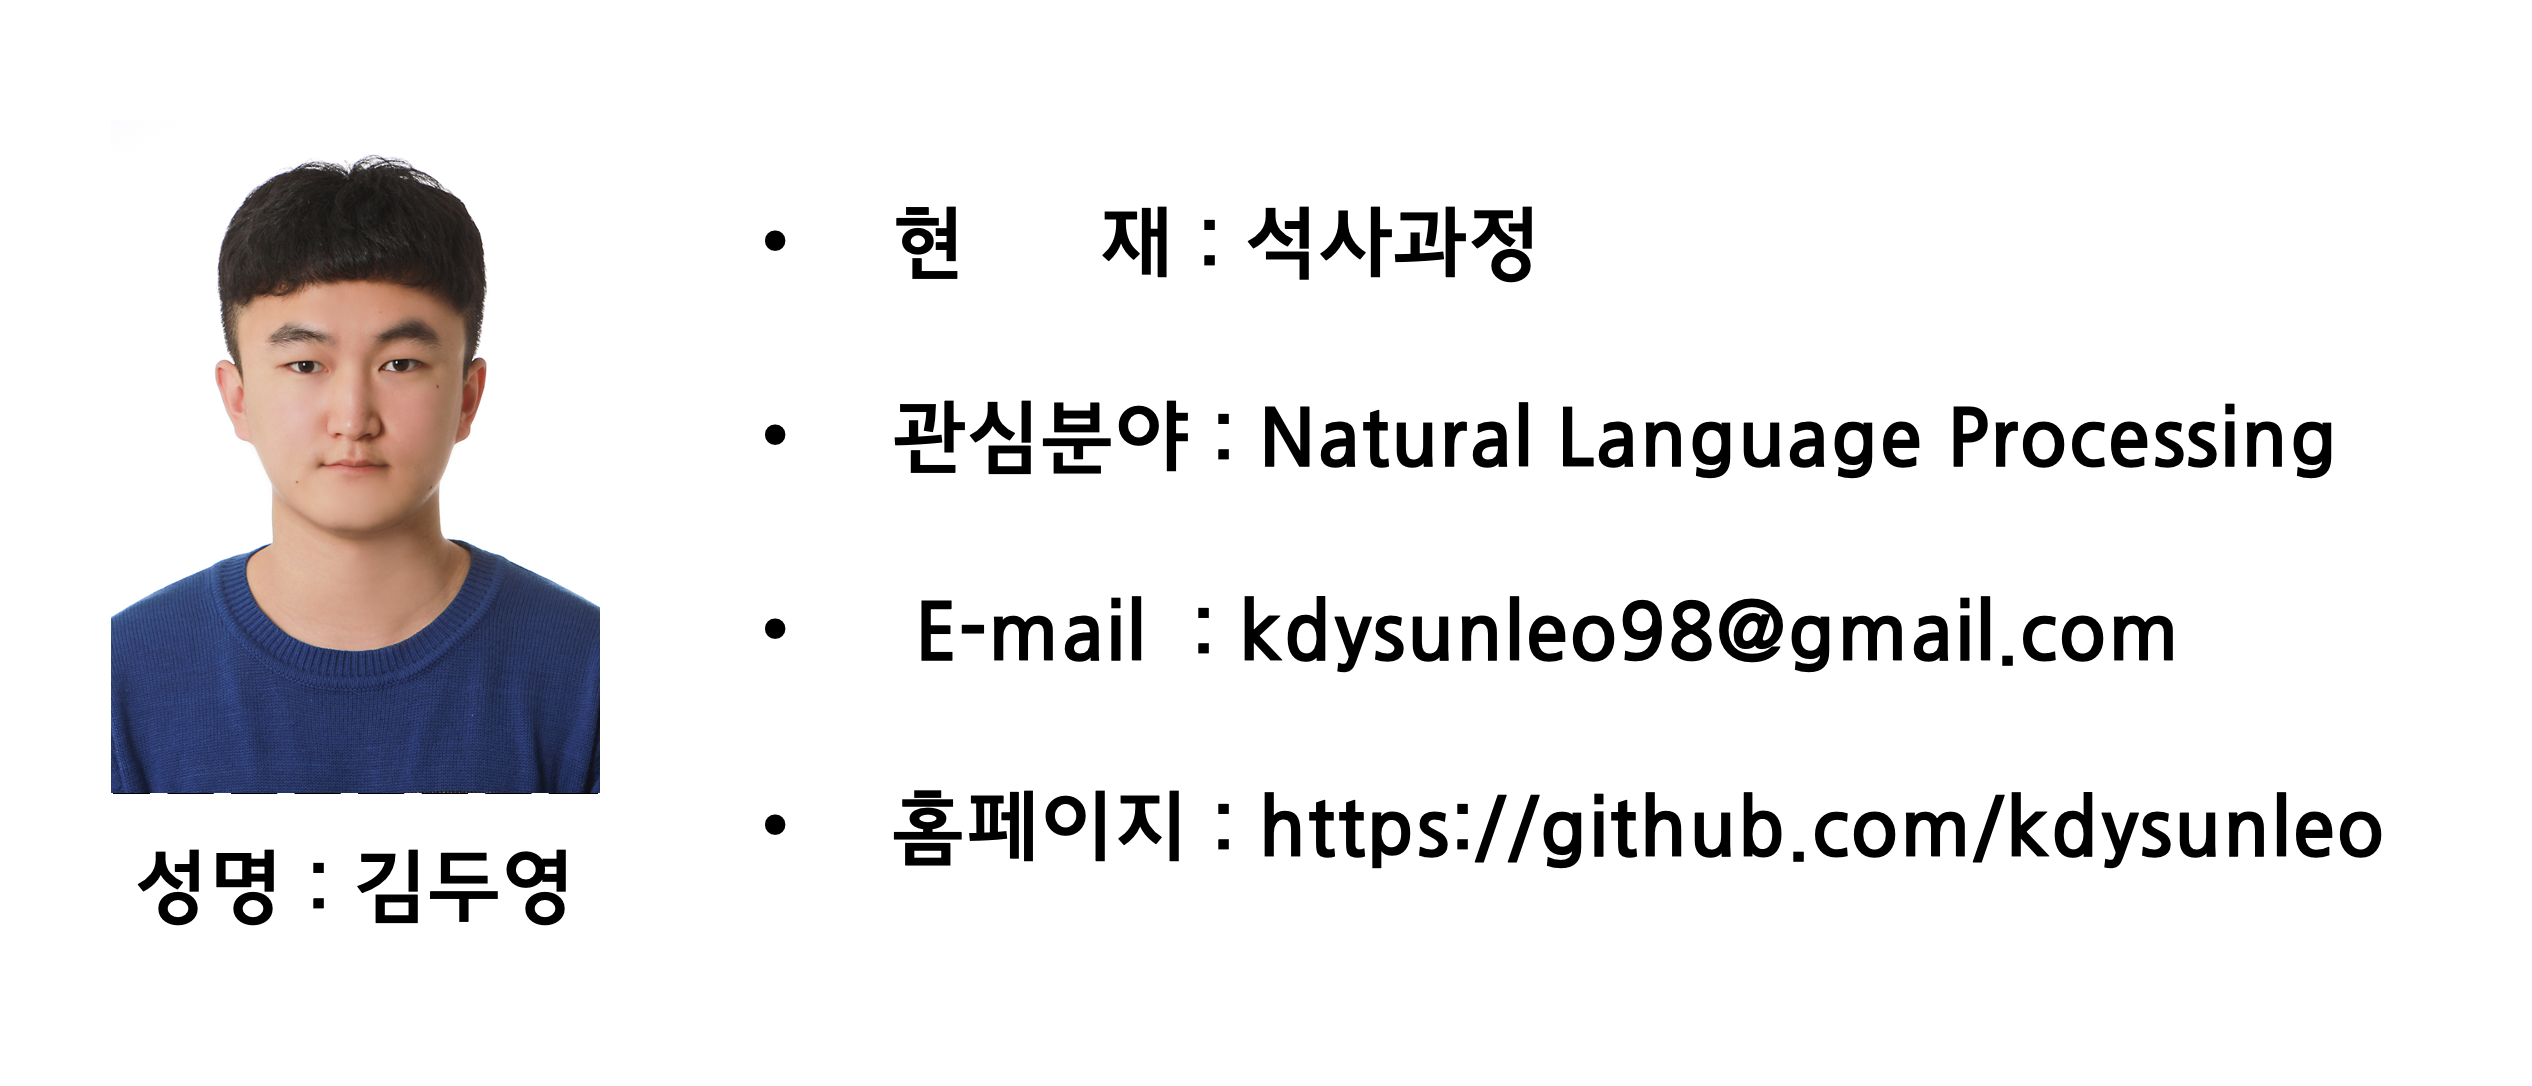
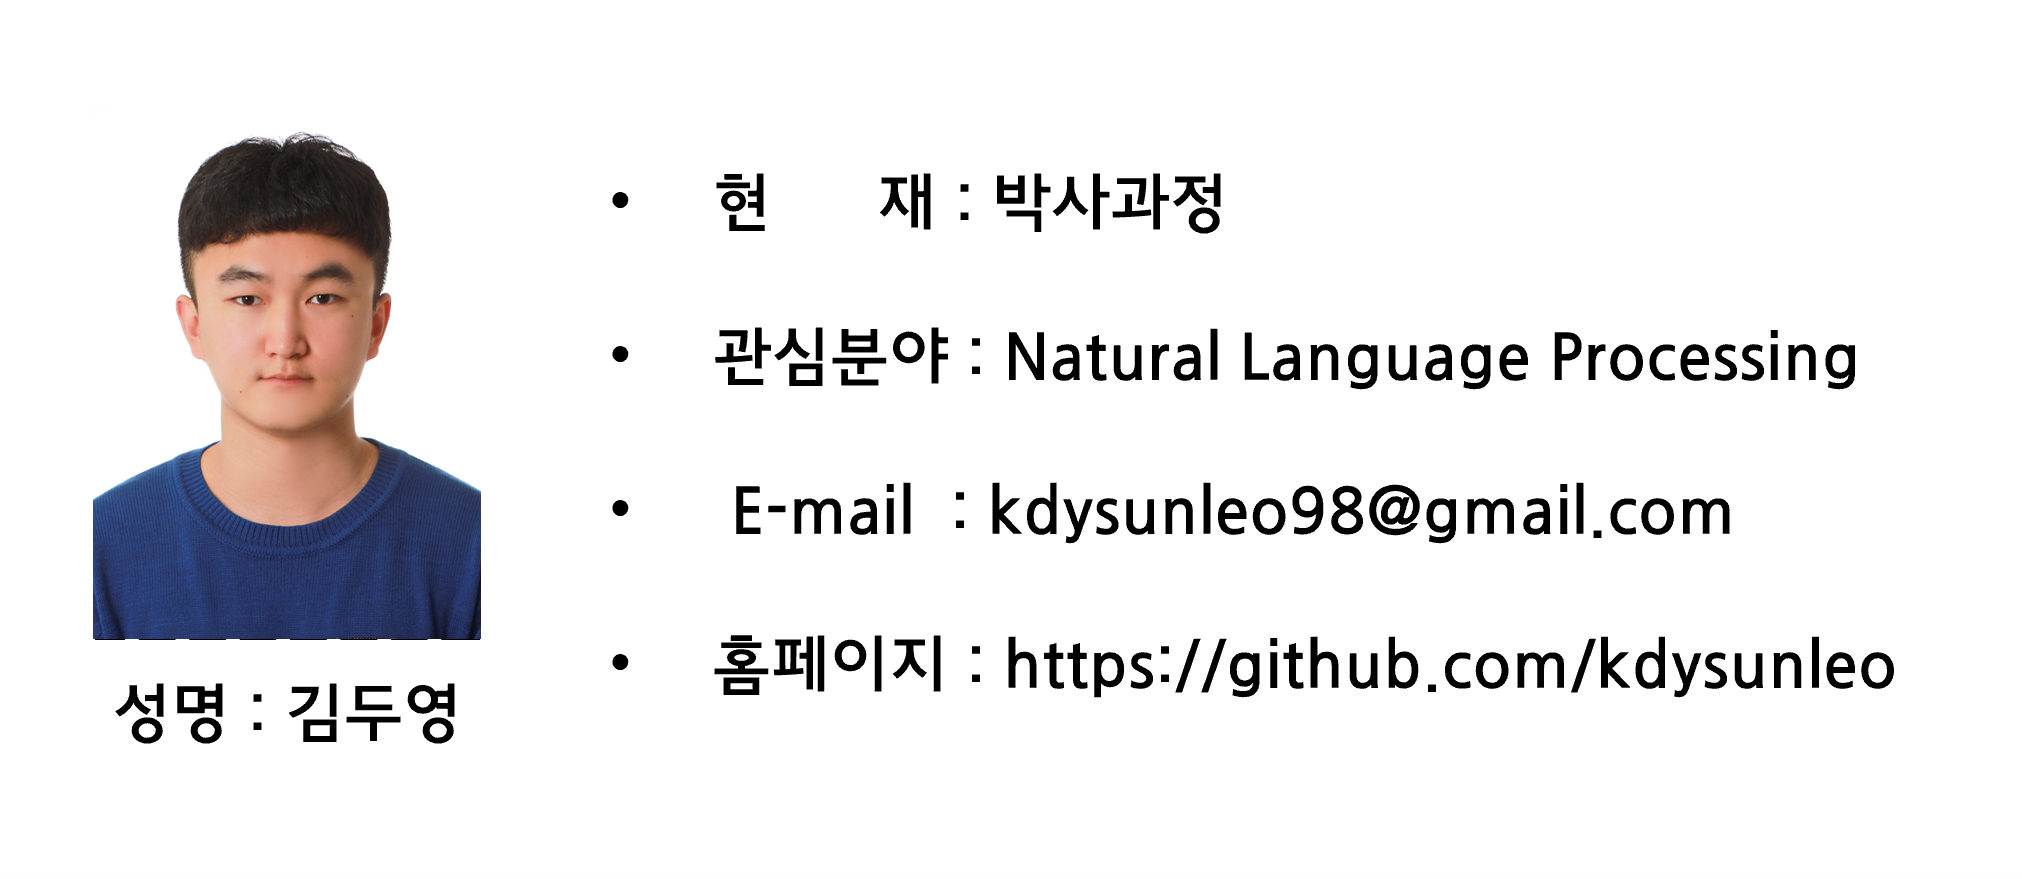
Update Members.html

diff --git a/Members.html b/Members.html
@@ -45,12 +45,12 @@ title: Members
 	<blockquote>
 	<p><a name="2"><font style = "color:#0000A5;">#박사과정</font></a></p>
 	<p><div><a href = "https://bg-choi.github.io/" target = "_blank"><img class = "center" src="/assets/img/members/member_cbg.png" width = "250px" height = "125px"></a></div></p>
+	<p><div><a href = "https://github.com/kdysunleo" target = "_blank"><img class = "center" src="/assets/img/members/member_kdy.png" width = "250px" height = "125px"></div></p>
 	<p><small><a href="#top">Back to Top</a></small></p>
 	</blockquote>
 
 	<blockquote>
 	<p><a name="3"><font style = "color:#0000A5;">#석사과정</font></a></p>
-	<p><div><a href = "https://github.com/kdysunleo" target = "_blank"><img class = "center" src="/assets/img/members/member_kdy.png" width = "250px" height = "125px"></div></p>
 	<p><div><a href = "https://github.com/jjapagguri" target = "_blank"><img class = "center" src="/assets/img/members/member_cgr.png" width = "250px" height = "125px"></div></p>
 	<p><div><a href = "https://github.com/bambidz" target = "_blank"><img class = "center" src="/assets/img/members/member_cyj.png" width = "250px" height = "125px"></div></p>
 	<p><div><a href = "https://github.com/jaeah-joah" target = "_blank"><img class = "center" src="/assets/img/members/member_yja.png" width = "250px" height = "125px"></div></p>
@@ -61,14 +61,13 @@ title: Members
 	<p><div><a href = "https://github.com/Suyoung-Min" target = "_blank"><img class = "center" src="/assets/img/members/member_msy.png" width = "250px" height = "125px"></div></p>
 	<p><div><a href = "https://github.com/mook0227" target = "_blank"><img class = "center" src="/assets/img/members/member_chm.png" width = "250px" height = "125px"></div></p>
 	<p><div><a href = "https://github.com/seumm" target = "_blank"><img class = "center" src="/assets/img/members/member_ssm.png" width = "250px" height = "125px"></div></p>
-
+	<p><div><a href = "https://heygeronimo.tistory.com" target = "_blank"><img class = "center" src="/assets/img/members/member_pjy.png" width = "250px" height = "125px"></div></p>
+	<p><div><a href = "https://github.com/yali98" target = "_blank"><img class = "center" src="/assets/img/members/member_jyj.png" width = "250px" height = "125px"></div></p>
 	<p><small><a href="#top">Back to Top</a></small></p>
 	</blockquote>
 
 	<blockquote>
 	<p><a name="4"><font style = "color:#0000A5;">#학부과정</font></a></p>
-	<p><div><img class = "center" src="/assets/img/members/member_pjy.PNG" width = "250px" height = "125px"></div></p>
-	<p><div><img class = "center" src="/assets/img/members/member_jyj.PNG" width = "250px" height = "125px"></div></p>
 	<p><div><img class = "center" src="/assets/img/members/member_pjj.png" width = "250px" height = "125px"></div></p>
 	<p><div><img class = "center" src="/assets/img/members/member_psw.png" width = "250px" height = "125px"></div></p>
 	<p><div><img class = "center" src="/assets/img/members/member_hym.png" width = "250px" height = "125px"></div></p>
